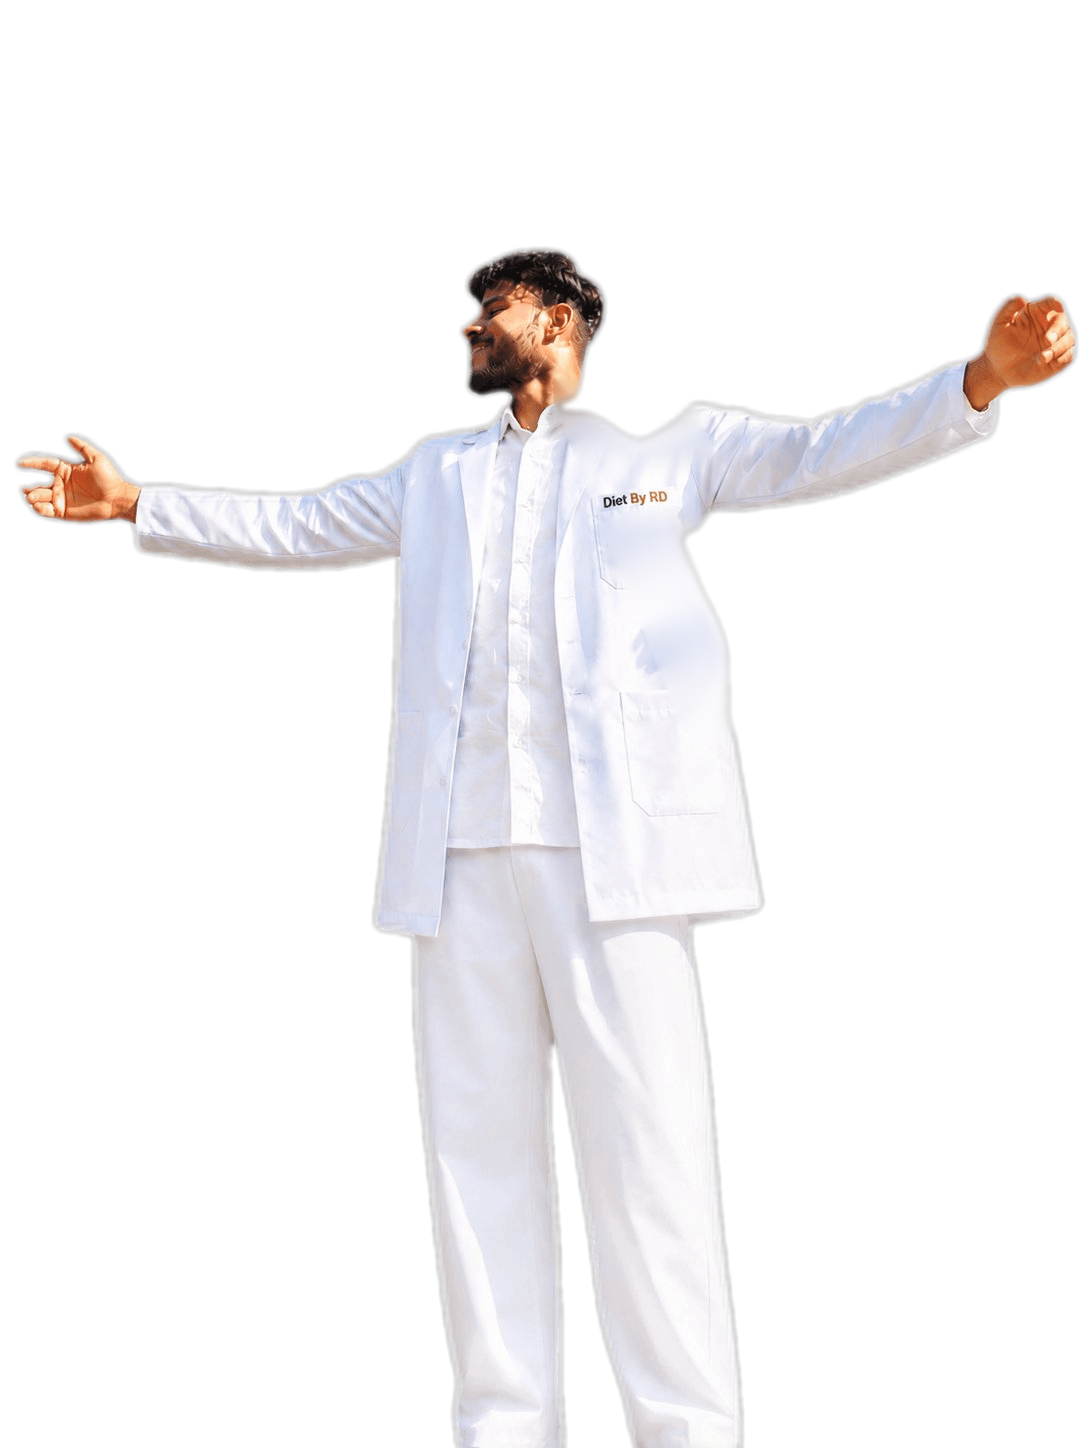
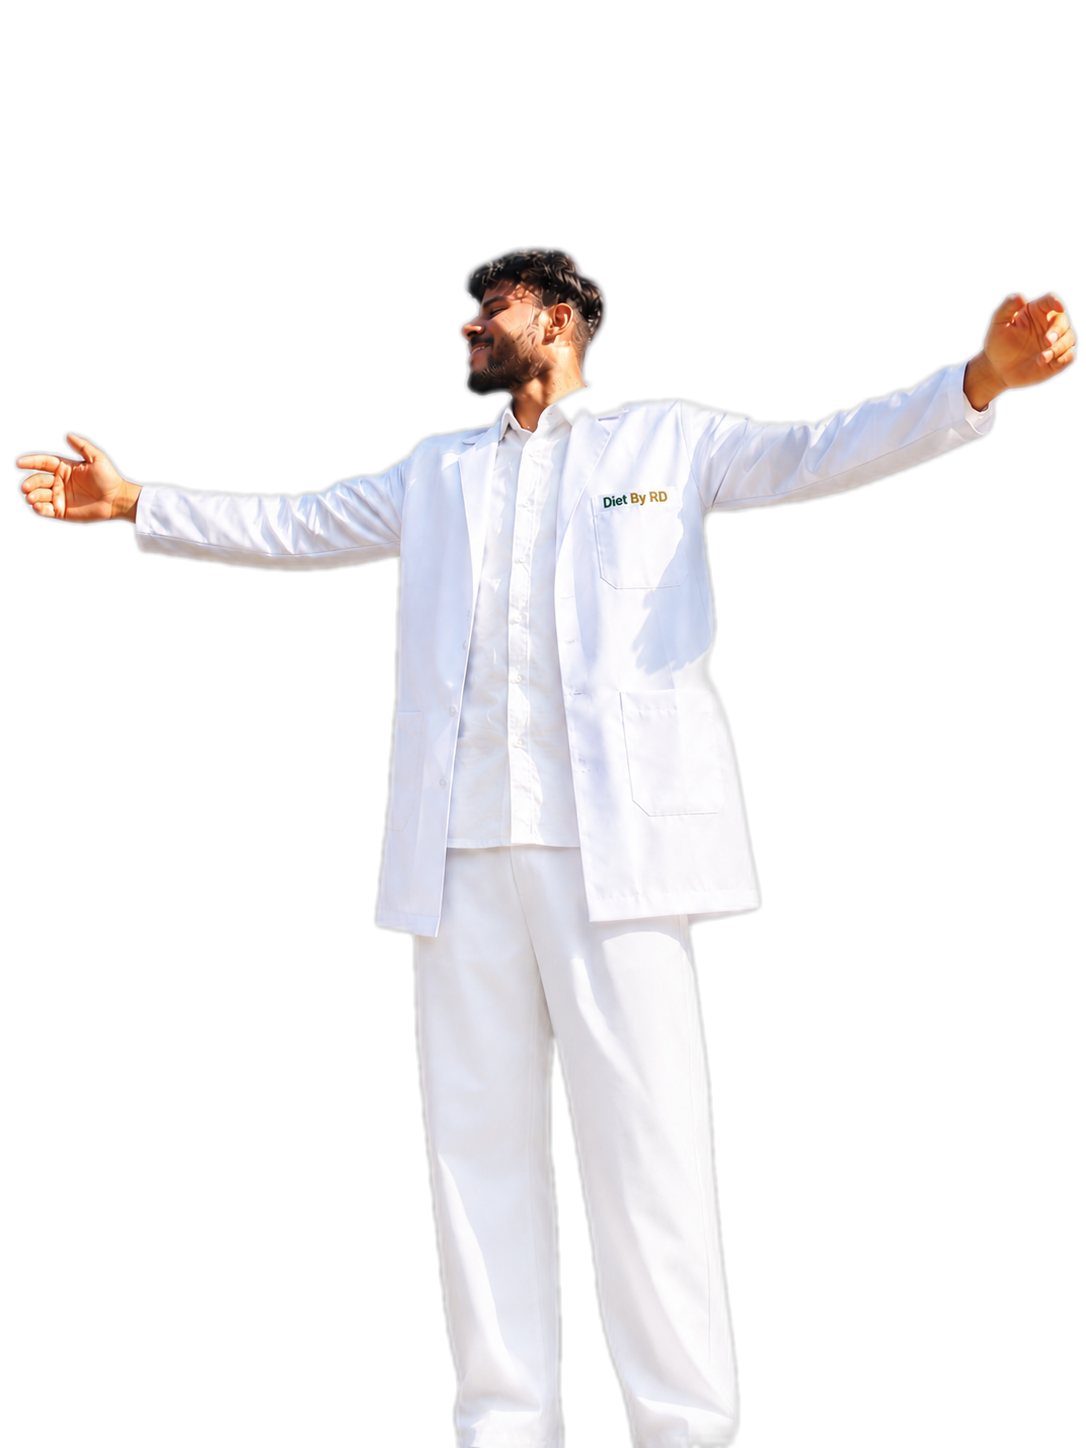
Re-cut founder photo and maximize the Join-page doctors image
- Replaced the founder cutout with a fresh source photo, re-cut with
  the same alpha-erosion defringe pipeline used elsewhere this
  session; no more visible edge/border artifacts.
- The Join page's doctors image was undersized because its sizing
  never accounted for how much vertical room the "Doctors" card
  actually needed. That card was stretched (items-stretch) to match
  the much taller "Registered Dietitian" card even though its own
  content is one short paragraph, which then constrained the image far
  more than necessary. Switched to items-start so each card sizes to
  its own content, then gave the image a full-width container below
  the (now much shorter) Doctors card instead of guessing at
  per-breakpoint percentages. It's now substantially larger while
  still structurally guaranteed not to overlap either card.

diff --git a/src/pages/Index.tsx b/src/pages/Index.tsx
@@ -744,7 +744,7 @@ const Index = () => {
           DietByRD as a professional:
         </h2>
 
-        <div className="flex flex-col sm:flex-row gap-3 items-stretch max-w-[400px] xl:max-w-[440px] relative z-20">
+        <div className="flex flex-col sm:flex-row gap-3 items-start max-w-[400px] xl:max-w-[440px] relative z-20">
           {/* Dietitian Column */}
           <div className="flex-[1.2] bg-transparent border border-[#33654A]/10 sm:border-r-transparent rounded-[14px] p-3.5 xl:p-4 shadow-sm">
             <div className="flex items-center gap-2.5 mb-3 pb-2.5 border-b-2 border-[#33654A]/20 w-fit">
@@ -931,12 +931,12 @@ const Index = () => {
 
           {/* Image Container - Professional (Join Form) */}
           <div
-            className={`absolute inset-0 pointer-events-none z-30 transition-opacity duration-500 ease-in-out ${showJoinForm ? 'opacity-100' : 'opacity-0'}`}
+            className={`absolute top-[60%] bottom-0 left-0 right-0 pointer-events-none z-30 transition-opacity duration-500 ease-in-out ${showJoinForm ? 'opacity-100' : 'opacity-0'}`}
           >
             <img
               src="/new-docs-full.webp"
               alt="Professional Doctors and Dietitians"
-              className="absolute bottom-0 right-[2%] h-[50%] xl:h-[62%] 2xl:h-[68%] object-contain object-right-bottom"
+              className="absolute inset-0 w-full h-full object-contain object-right-bottom"
             />
           </div>
 